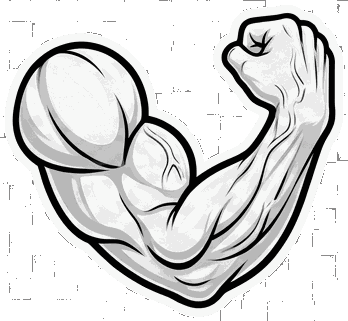
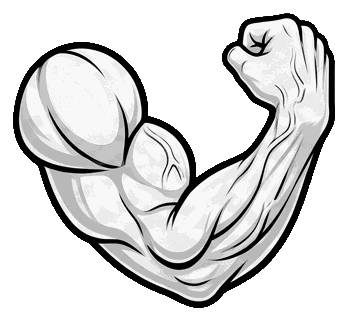
Fix checkerboard backgrounds on 7 muscle assets; wire face_emojis and food packs into health/food screens

diff --git a/lib/core/food_emoji.dart b/lib/core/food_emoji.dart
@@ -304,6 +304,56 @@ String foodEmoji(String name) => lookupFoodGlyph(name) ?? kFoodGlyphFallback;
 /// photo instead.
 bool isUnknownFood(String name) => lookupFoodGlyph(name) == null;
 
+// ════════════════════════════════════════════════════════════════════════
+// PATCH_NEW_ASSET_PACKS
+// Curated keyword -> illustrated-asset overrides, same lookup shape as
+// kFoodGlyphs above. Only covers foods where assets/emoji/<pack>/ has an
+// actual illustration for that exact thing (fruit/veg clipart, a couple
+// of fast-food + dessert packs) -- everything else keeps using the plain
+// glyph table above. Add to this table as more packs come in; don't
+// replace kFoodGlyphs wholesale, most of its few hundred keywords have
+// no matching illustration and never will.
+// ════════════════════════════════════════════════════════════════════════
+const Map<String, String> kFoodAssetOverrides = {
+  'apple':      'assets/emoji/clipart_foods/689338-clipapple.png',
+  'banana':     'assets/emoji/clipart_foods/992116-clipbanana.png',
+  'orange':     'assets/emoji/clipart_foods/138331-cliporange.png',
+  'strawberry': 'assets/emoji/clipart_foods/339716-clipstrawberry.png',
+  'watermelon': 'assets/emoji/clipart_foods/339716-clipwatermelon.png',
+  'cherry':     'assets/emoji/clipart_foods/689338-clipcherry.png',
+  'tomato':     'assets/emoji/clipart_foods/419781-cliptomato.png',
+  'broccoli':   'assets/emoji/clipart_foods/568900-clipbroccoli.png',
+  'mushroom':   'assets/emoji/clipart_foods/334711-clipmushroom.png',
+  'chicken':    'assets/emoji/clipart_foods/568868-clipchicken.png',
+  'shrimp':     'assets/emoji/clipart_foods/740457-clipshrimp.png',
+  'egg':        'assets/emoji/clipart_foods/744157-clipegg.png',
+  'sushi':      'assets/emoji/clipart_foods/484824-clipsushi.png',
+  'sausage':    'assets/emoji/clipart_foods/811566-clipsausage.png',
+  'pizza':      'assets/emoji/fast_food/2137-pizza.png',
+  'burger':     'assets/emoji/fast_food/6862-burger.png',
+  'fries':      'assets/emoji/fast_food/4100-fries.png',
+  'donut':      'assets/emoji/food_drink/19292-pinkcutedonut.png',
+  'ice cream':  'assets/emoji/food_drink/8541-icecreamx.png',
+  'milkshake':  'assets/emoji/food_drink/53175-milkshakecutex.png',
+  'cupcake':    'assets/emoji/cupcakes/84120-redvelvetcupcake.png',
+  'muffin':     'assets/emoji/food_drink/89974-pinkmuffin.png',
+};
+
+final List<String> _sortedAssetKeys = kFoodAssetOverrides.keys.toList()
+  ..sort((a, b) => b.length.compareTo(a.length));
+
+/// Best-matching illustrated asset for [name], or null when this food
+/// isn't in the curated table -- callers should fall back to
+/// [lookupFoodGlyph].
+String? lookupFoodAsset(String name) {
+  final needle = name.toLowerCase().trim();
+  if (needle.isEmpty) return null;
+  for (final key in _sortedAssetKeys) {
+    if (needle.contains(key)) return kFoodAssetOverrides[key];
+  }
+  return null;
+}
+
 // ════════════════════════════════════════════════════════════════════
 // ONLINE THUMBNAILS
 // ════════════════════════════════════════════════════════════════════
@@ -392,6 +442,7 @@ class FoodThumb extends StatefulWidget {
 
 class _FoodThumbState extends State<FoodThumb> {
   String? _glyph;
+  String? _assetPath; // PATCH_NEW_ASSET_PACKS
   String? _url;
   bool _looking = false;
 
@@ -409,6 +460,7 @@ class _FoodThumbState extends State<FoodThumb> {
 
   void _resolve() {
     _glyph = lookupFoodGlyph(widget.name);
+    _assetPath = lookupFoodAsset(widget.name); // PATCH_NEW_ASSET_PACKS
     if (widget.imageUrl != null && widget.imageUrl!.trim().isNotEmpty) {
       FoodImageCache.seed(widget.name, widget.imageUrl);
       _url = widget.imageUrl!.trim();
@@ -443,6 +495,18 @@ class _FoodThumbState extends State<FoodThumb> {
   }
 
   Widget _content() {
+    // PATCH_NEW_ASSET_PACKS: prefer the illustrated asset when this food
+    // has one; a broken/renamed asset just falls back to the old glyph.
+    if (_assetPath != null) {
+      return Image.asset(
+        _assetPath!,
+        fit: BoxFit.contain,
+        width: widget.size,
+        height: widget.size,
+        errorBuilder: (_, __, ___) =>
+            _glyphView(_glyph ?? kFoodGlyphFallback),
+      );
+    }
     if (_glyph != null) return _glyphView(_glyph!);
     if (_url != null) {
       return Image.network(

diff --git a/lib/features/health/health_screen.dart b/lib/features/health/health_screen.dart
@@ -349,8 +349,18 @@ class _HealthScreenState extends ConsumerState<HealthScreen>
               style: const TextStyle(fontFamily: 'Cairo', fontSize: 13,
                   color: AppColors.sleepPurple)),
         ]),
-        Text(sleep.hours >= 8 ? '😊' : sleep.hours >= 6 ? '😐' : '😞',
-            style: const TextStyle(fontSize: 32)),
+        // PATCH_NEW_ASSET_PACKS: sleep-quality face -> assets/emoji/face_emojis/
+        Image.asset(
+          sleep.hours >= 8
+              ? 'assets/emoji/face_emojis/uwu.png'
+              : sleep.hours >= 6
+                  ? 'assets/emoji/face_emojis/wat.png'
+                  : 'assets/emoji/face_emojis/weep.png',
+          width: 32, height: 32,
+          errorBuilder: (_, __, ___) => Text(
+              sleep.hours >= 8 ? '😊' : sleep.hours >= 6 ? '😐' : '😞',
+              style: const TextStyle(fontSize: 32)),
+        ),
       ]),
       const SizedBox(height: 12),
       Row(children: [4, 5, 6, 7, 8, 9, 10].map((h) => Expanded(
@@ -518,9 +528,10 @@ class _HealthScreenState extends ConsumerState<HealthScreen>
 
   Widget _moodCard(HealthState health, bool isAr, bool isDark) {
     final bg = isDark ? AppColors.darkCard : Colors.white;
+    // PATCH_NEW_ASSET_PACKS: mood faces -> assets/emoji/face_emojis/
     final moods = isAr
-        ? [['😄', 'ممتاز'], ['😊', 'جيد'], ['😐', 'عادي'], ['😔', 'تعبان'], ['😡', 'متوتر']]
-        : [['😄', 'Great'], ['😊', 'Good'], ['😐', 'Okay'], ['😔', 'Low'], ['😡', 'Stressed']];
+        ? [['assets/emoji/face_emojis/kirakira.png', 'ممتاز'], ['assets/emoji/face_emojis/uwu.png', 'جيد'], ['assets/emoji/face_emojis/wat.png', 'عادي'], ['assets/emoji/face_emojis/yawn.png', 'تعبان'], ['assets/emoji/face_emojis/nervous.png', 'متوتر']]
+        : [['assets/emoji/face_emojis/kirakira.png', 'Great'], ['assets/emoji/face_emojis/uwu.png', 'Good'], ['assets/emoji/face_emojis/wat.png', 'Okay'], ['assets/emoji/face_emojis/yawn.png', 'Low'], ['assets/emoji/face_emojis/nervous.png', 'Stressed']];
 
     return _card(bg, Column(children: [
       Row(mainAxisAlignment: MainAxisAlignment.spaceAround,
@@ -541,7 +552,9 @@ class _HealthScreenState extends ConsumerState<HealthScreen>
               borderRadius: BorderRadius.circular(12),
             ),
             child: Column(children: [
-              Text(m[0], style: const TextStyle(fontSize: 28)),
+              Image.asset(m[0], width: 28, height: 28,
+                  errorBuilder: (_, __, ___) =>
+                      const Text('🙂', style: TextStyle(fontSize: 28))),
               Text(m[1],
                   style: const TextStyle(fontFamily: 'Cairo', fontSize: 9,
                       color: AppColors.lightMuted)),

diff --git a/lib/features/fitness/fitness_screen.dart b/lib/features/fitness/fitness_screen.dart
@@ -315,6 +315,20 @@ class _FitnessState extends ConsumerState<FitnessScreen>
                               width: 0.8),
                         ),
                         child: Stack(children: [
+                          // PATCH_NEW_ASSET_PACKS: faint category muscle
+                          // watermark -- same asset already used for this
+                          // category on the workout-player screen.
+                          Positioned(
+                            right: 2, bottom: 2,
+                            child: Opacity(
+                              opacity: isDark ? 0.10 : 0.07,
+                              child: Image.asset(
+                                muscleAssetForCategory(w.category),
+                                width: 60, height: 60, fit: BoxFit.contain,
+                                errorBuilder: (_, __, ___) => const SizedBox.shrink(),
+                              ),
+                            ),
+                          ),
                           Column(crossAxisAlignment: CrossAxisAlignment.start, children: [
                             Row(children: [
                               Text(w.emoji, style: const TextStyle(fontSize: 32)),
